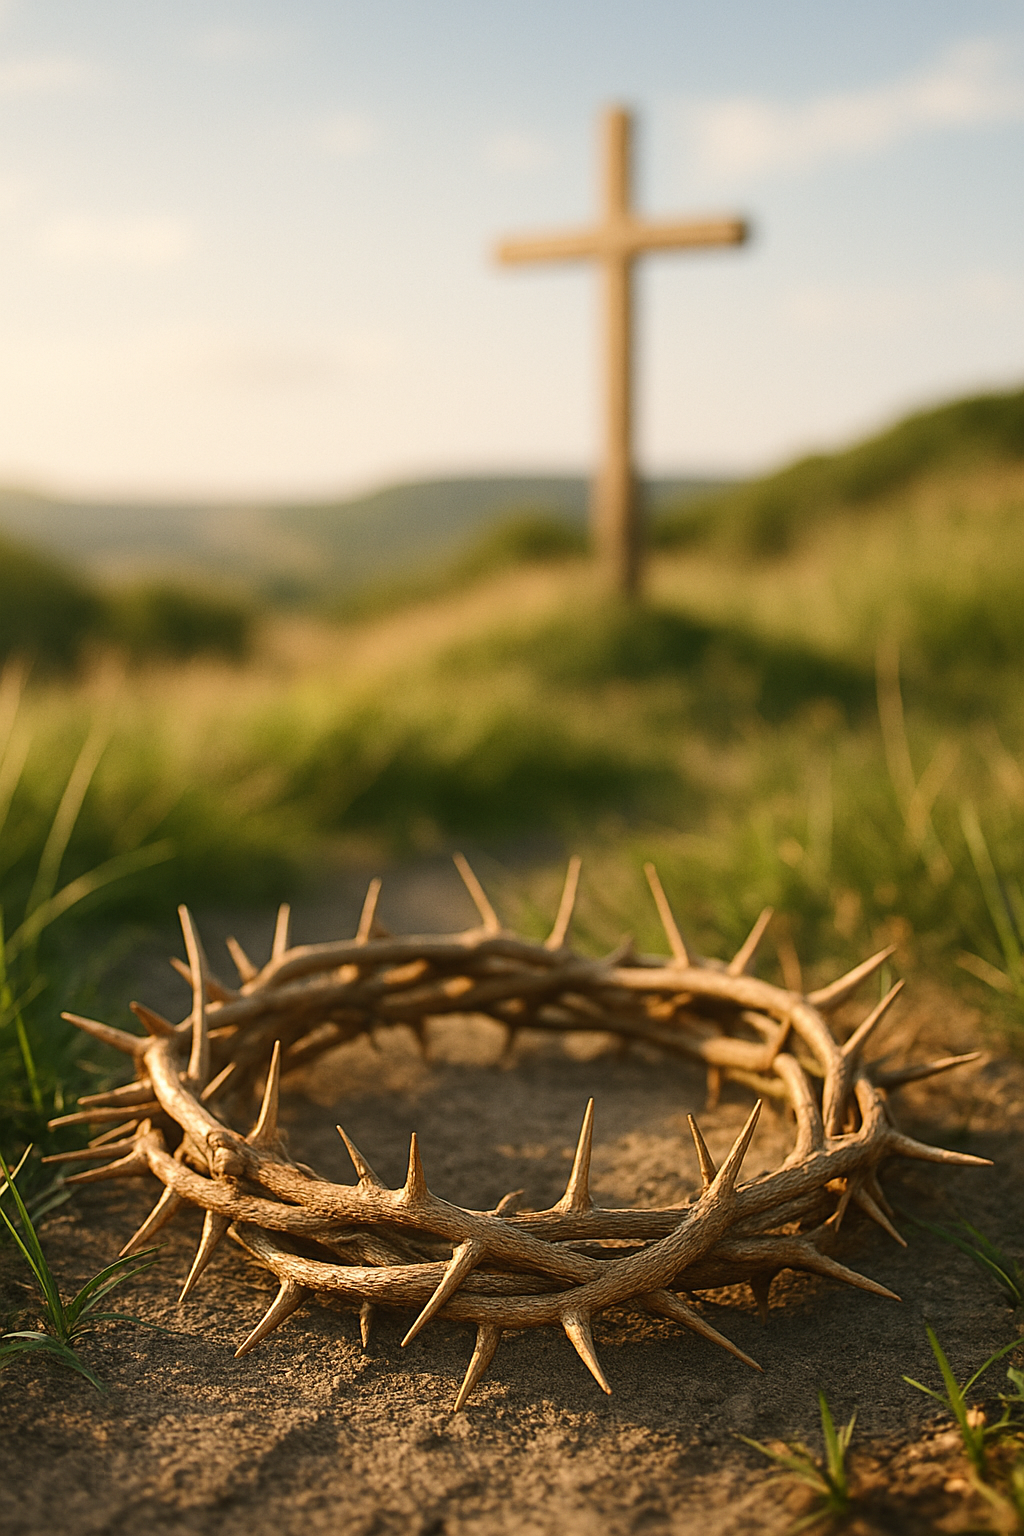
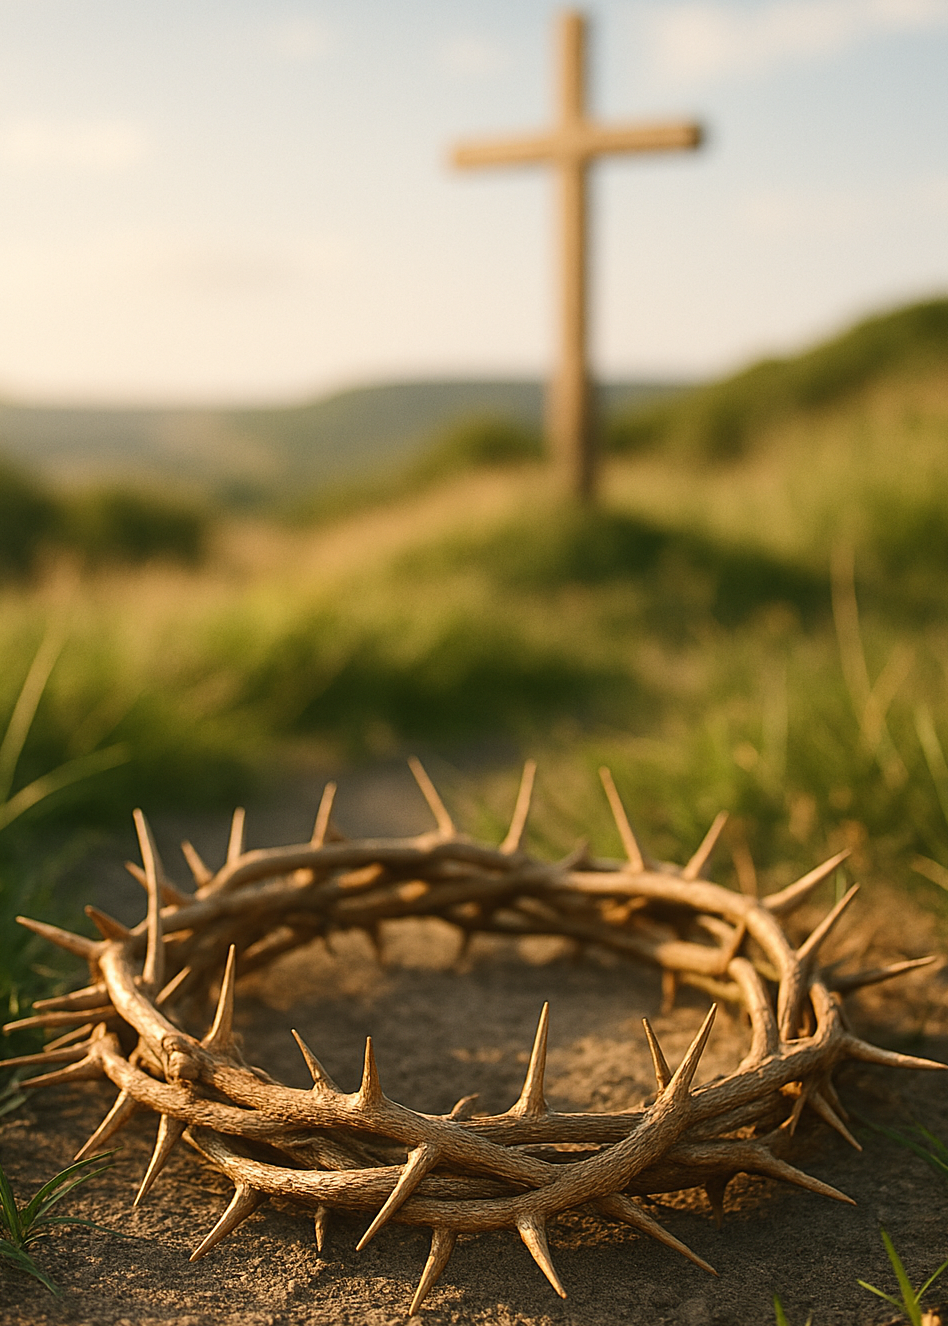
WEBSITE-4 : Modified images and adjusted mobile font
Changes to be committed:
	modified:   assets/css/styles.css
	modified:   assets/images/distant_cross.png
	new file:   assets/images/sunset_cross.png

diff --git a/assets/css/styles.css b/assets/css/styles.css
@@ -29,7 +29,7 @@
 }
 
 body {
-    background-image: url(/assets/images/distant_cross.png);
+    background-image: url(/assets/images/sunset_cross.png);
     background-position: center center;
     background-size: cover;
     background-repeat: no-repeat;
@@ -160,20 +160,20 @@ header h1 {
     }
 
     .card h1, .feature-heading {
-        font-size: clamp(2rem, 20vw, 3.2rem);
+        font-size: clamp(1.8rem, 17vw, 2.8rem);
     }
 
     .card p {
-        font-size: clamp(1.2rem, 17vw, 2.8rem);
+        font-size: clamp(1.2rem, 13vw, 2.3rem);
     }
 
     .highlight-message {
-        font-size: clamp(1.2rem, 17vw, 2.8rem);
+        font-size: clamp(1.2rem, 13vw, 2.3rem);
         padding: 1rem;
     }
 
     header {
-        font-size: clamp(1rem, 12vw, 2.5rem);
+        font-size: clamp(1.4rem, 15vw, 2.5rem);
         padding: 0.5rem;
     }
 }
